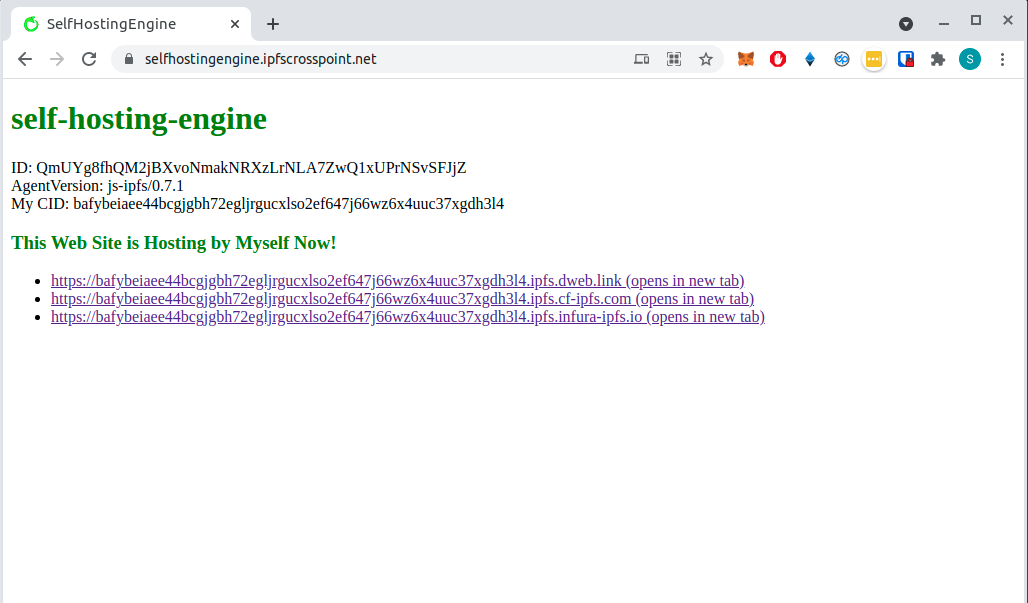
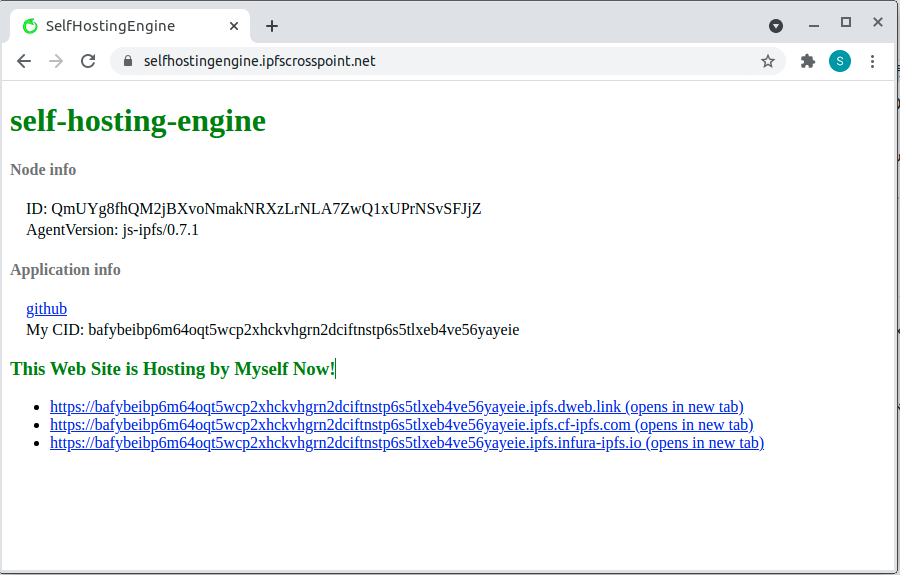
chore(doc): update screenshot and gateway link

diff --git a/README.md b/README.md
@@ -3,7 +3,7 @@
 
 [selfhostingengine.ipfscrosspoint.net](https://selfhostingengine.ipfscrosspoint.net/)
 
-[IPFS gatewey version](https://bafybeic52afvp4ot3vcqnthkatdtyhhgxpzpm62ihxgplcffsqaojclmue.ipfs.dweb.link/)
+[IPFS gatewey version](https://bafybeibp6m64oqt5wcp2xhckvhgrn2dciftnstp6s5tlxeb4ve56yayeie.ipfs.dweb.link/)
 
 
 
